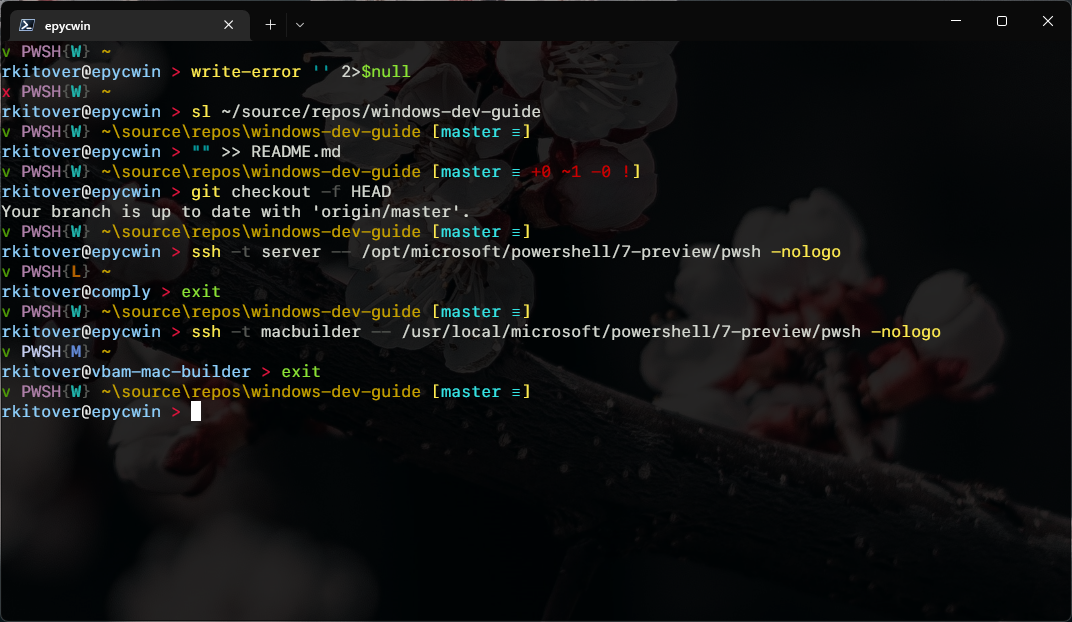
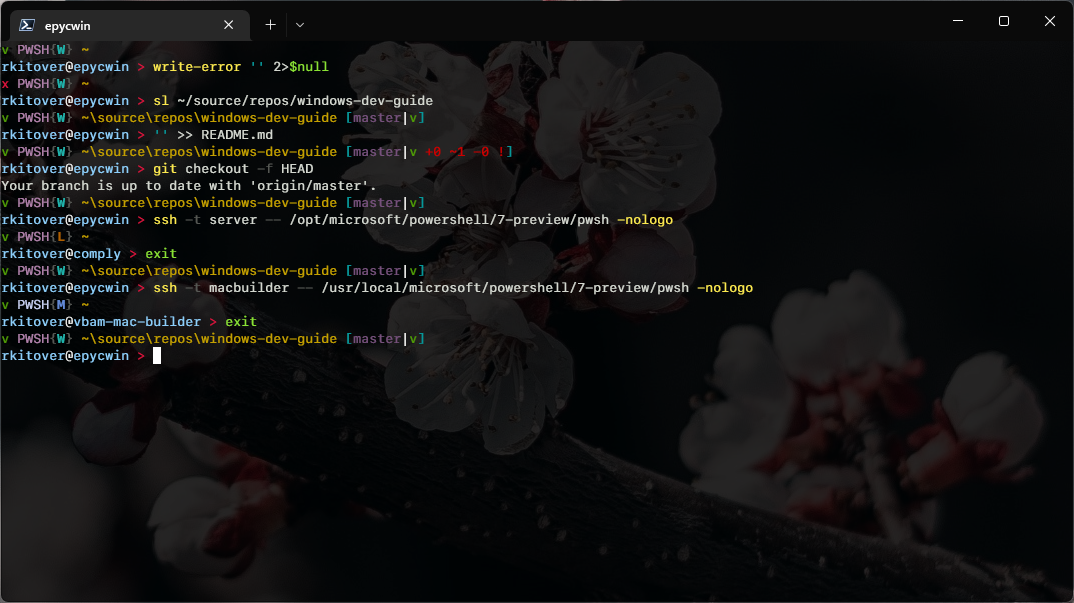
Add git branch and branch status design
Set branch color to tango magenta with a bright white separator for all
branch statuses.
Set identical branch status to green 'v' and all non-identical statuses
to red with the existing symbol.
Preserve modified values and add them to the documentation.
Update screenshot.

This design is more in-line with sh-prompt-simple and bash-git-prompt.

diff --git a/README.md b/README.md
@@ -85,6 +85,14 @@ preserved in the `$gitprompt_theme_bluelotus` exported hash table as follows:
 | $GitPromptSettings.DefaultPromptWriteStatusFirst        | OriginalDefaultPromptWriteStatusFirst        |
 | $GitPromptSettings.DefaultPromptPath.ForegroundColor    | OriginalDefaultPromptPathForegroundColor     |
 | $GitPromptSettings.DefaultPromptSuffix.ForegroundColor  | OriginalDefaultPromptSuffixForegroundColor   |
+| $GitPromptSettings.BeforeStatus.ForegroundColor         | OriginalBeforeStatusForegroundColor          |
+| $GitPromptSettings.AfterStatus.ForegroundColor          | OriginalAfterStatusForegroundColor           |
+| $GitPromptSettings.BranchColor.ForegroundColor          | OriginalBranchColorForegroundColor           |
+| $GitPromptSettings.BranchIdenticalStatusSymbol          | OriginalBranchIdenticalStatusSymbol          |
+| $GitPromptSettings.BranchGoneStatusSymbol               | OriginalBranchGoneStatusSymbol               |
+| $GitPromptSettings.BranchAheadStatusSymbol              | OriginalBranchAheadStatusSymbol              |
+| $GitPromptSettings.BranchBehindStatusSymbol             | OriginalBranchBehindStatusSymbol             |
+| $GitPromptSettings.BranchBehindAndAheadStatusSymbol     | OriginalBranchBehindAndAheadStatusSymbol     |
 
 It also changes the
 [`$host.ui.rawui.windowtitle`](https://docs.microsoft.com/en-us/dotnet/api/system.management.automation.host.pshostrawuserinterface.windowtitle?view=powershellsdk-7.0.0#system-management-automation-host-pshostrawuserinterface-windowtitle)
